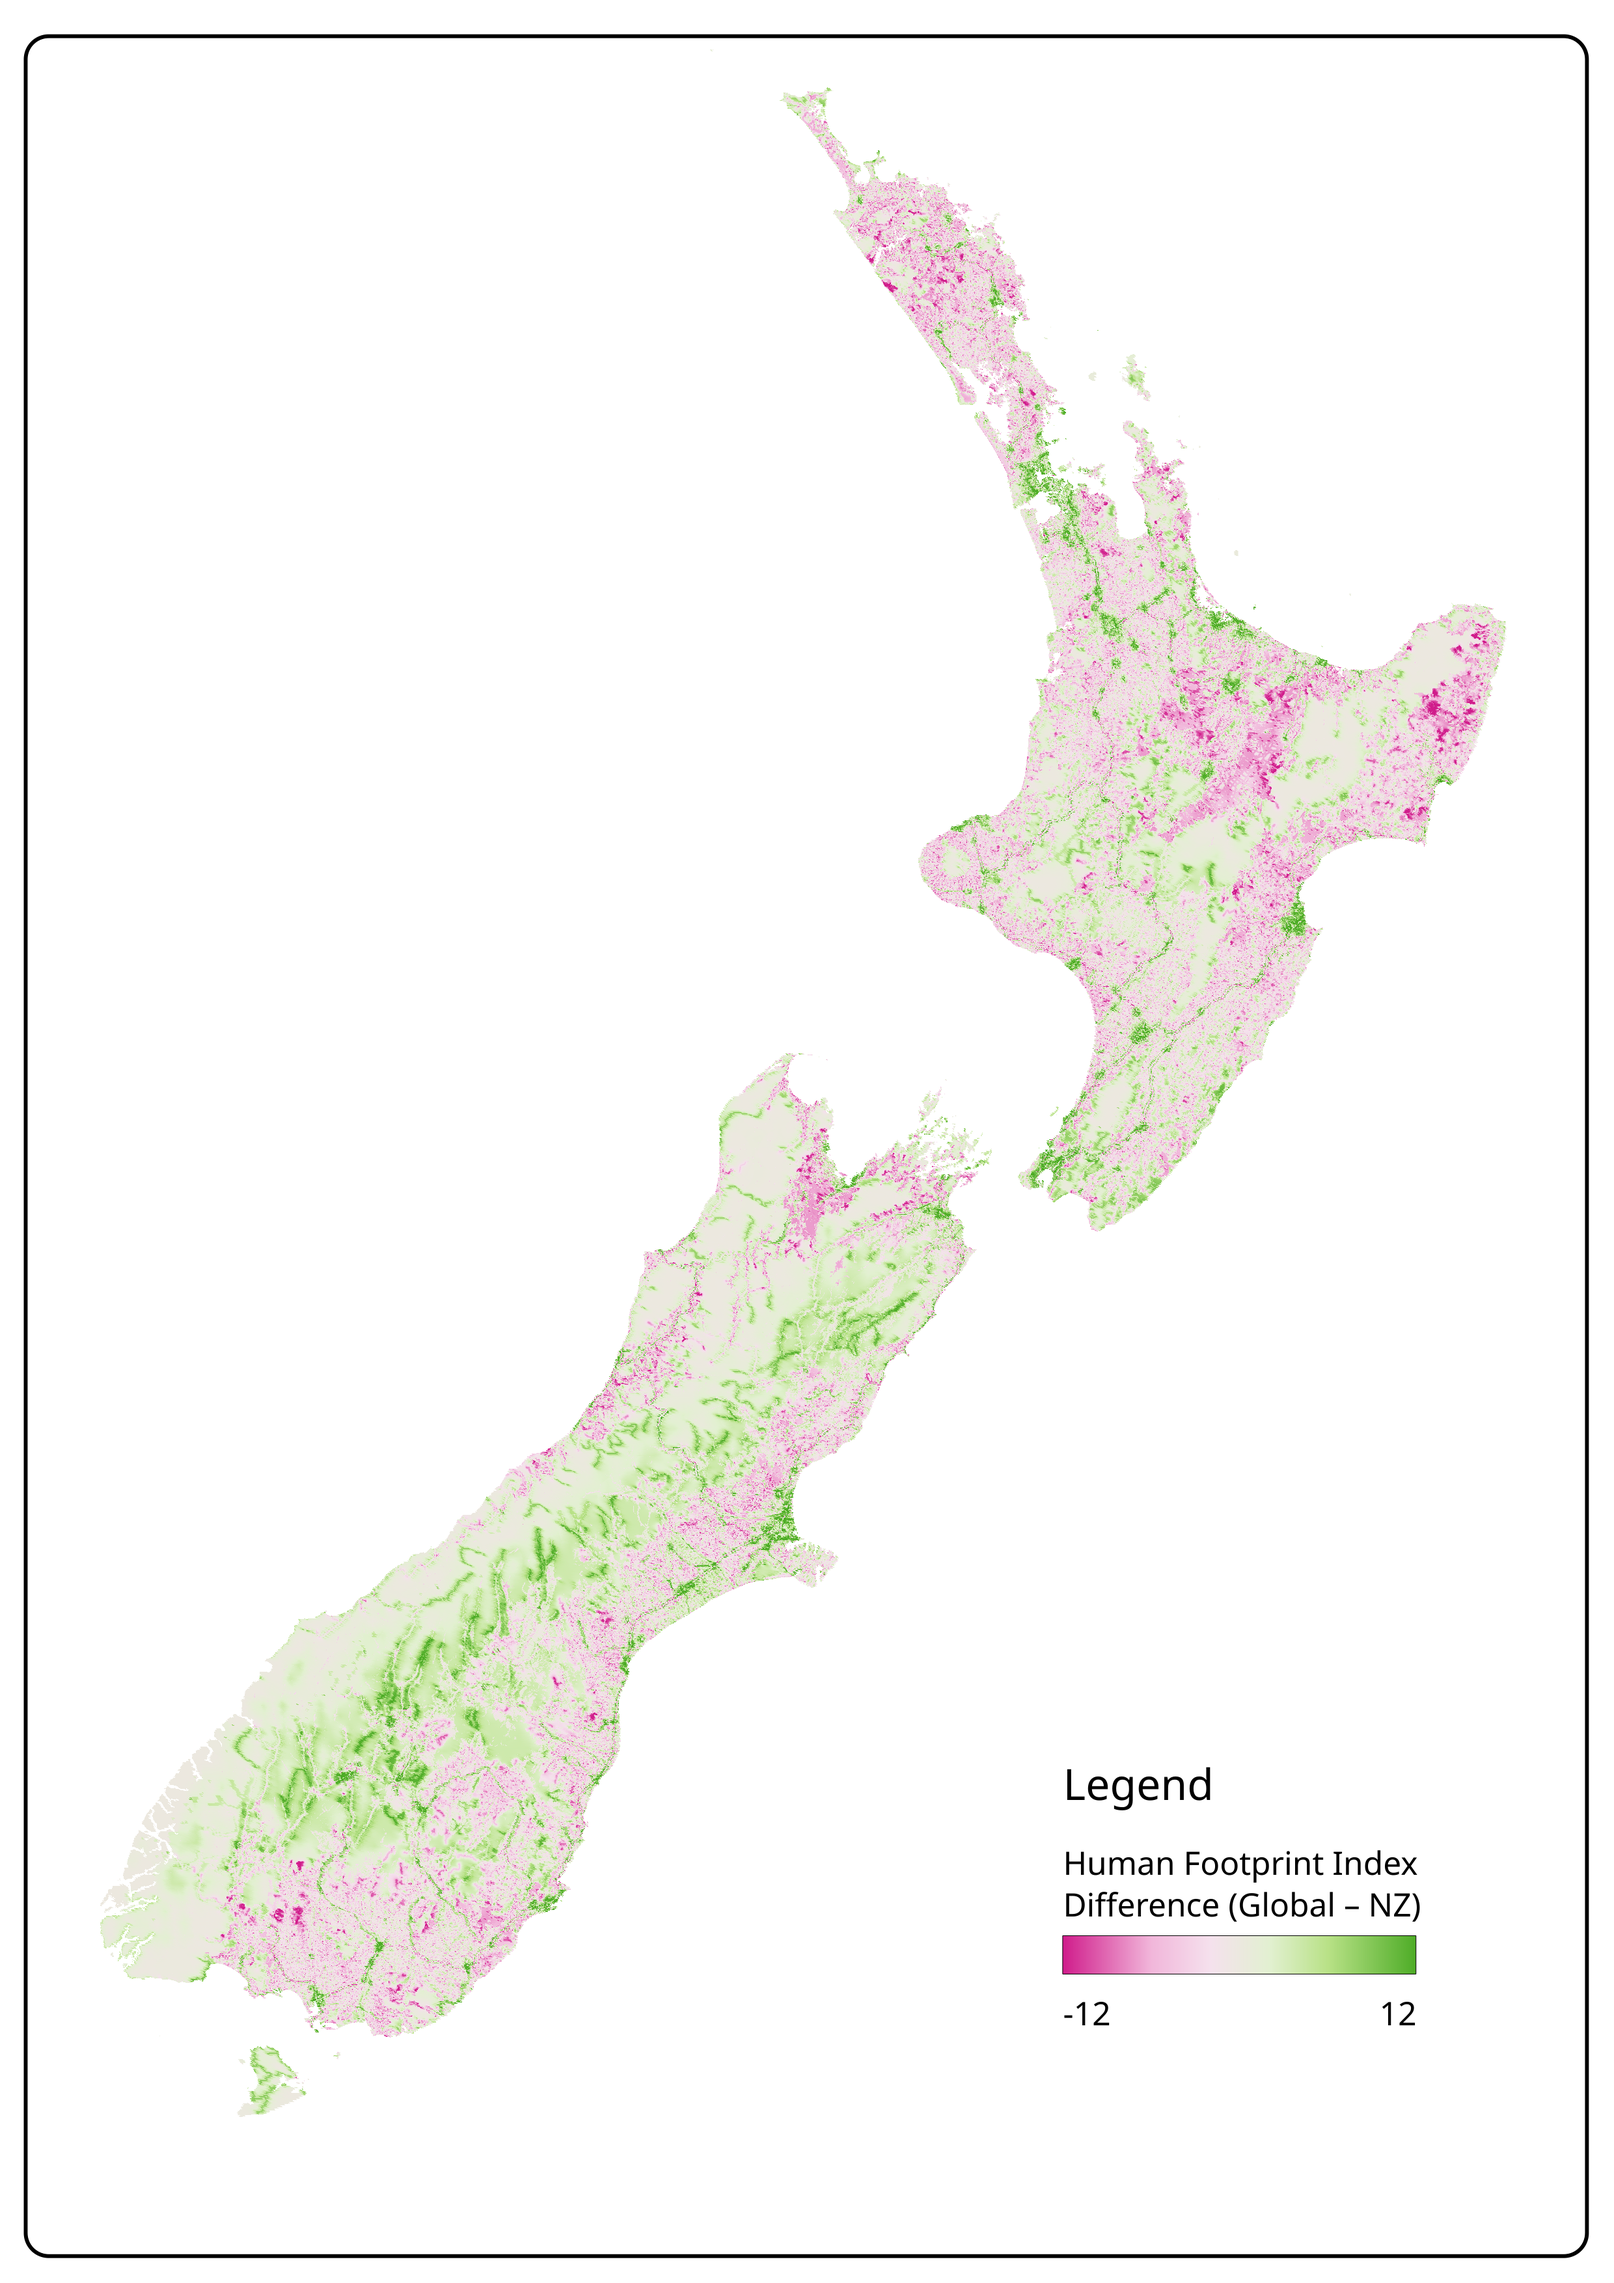
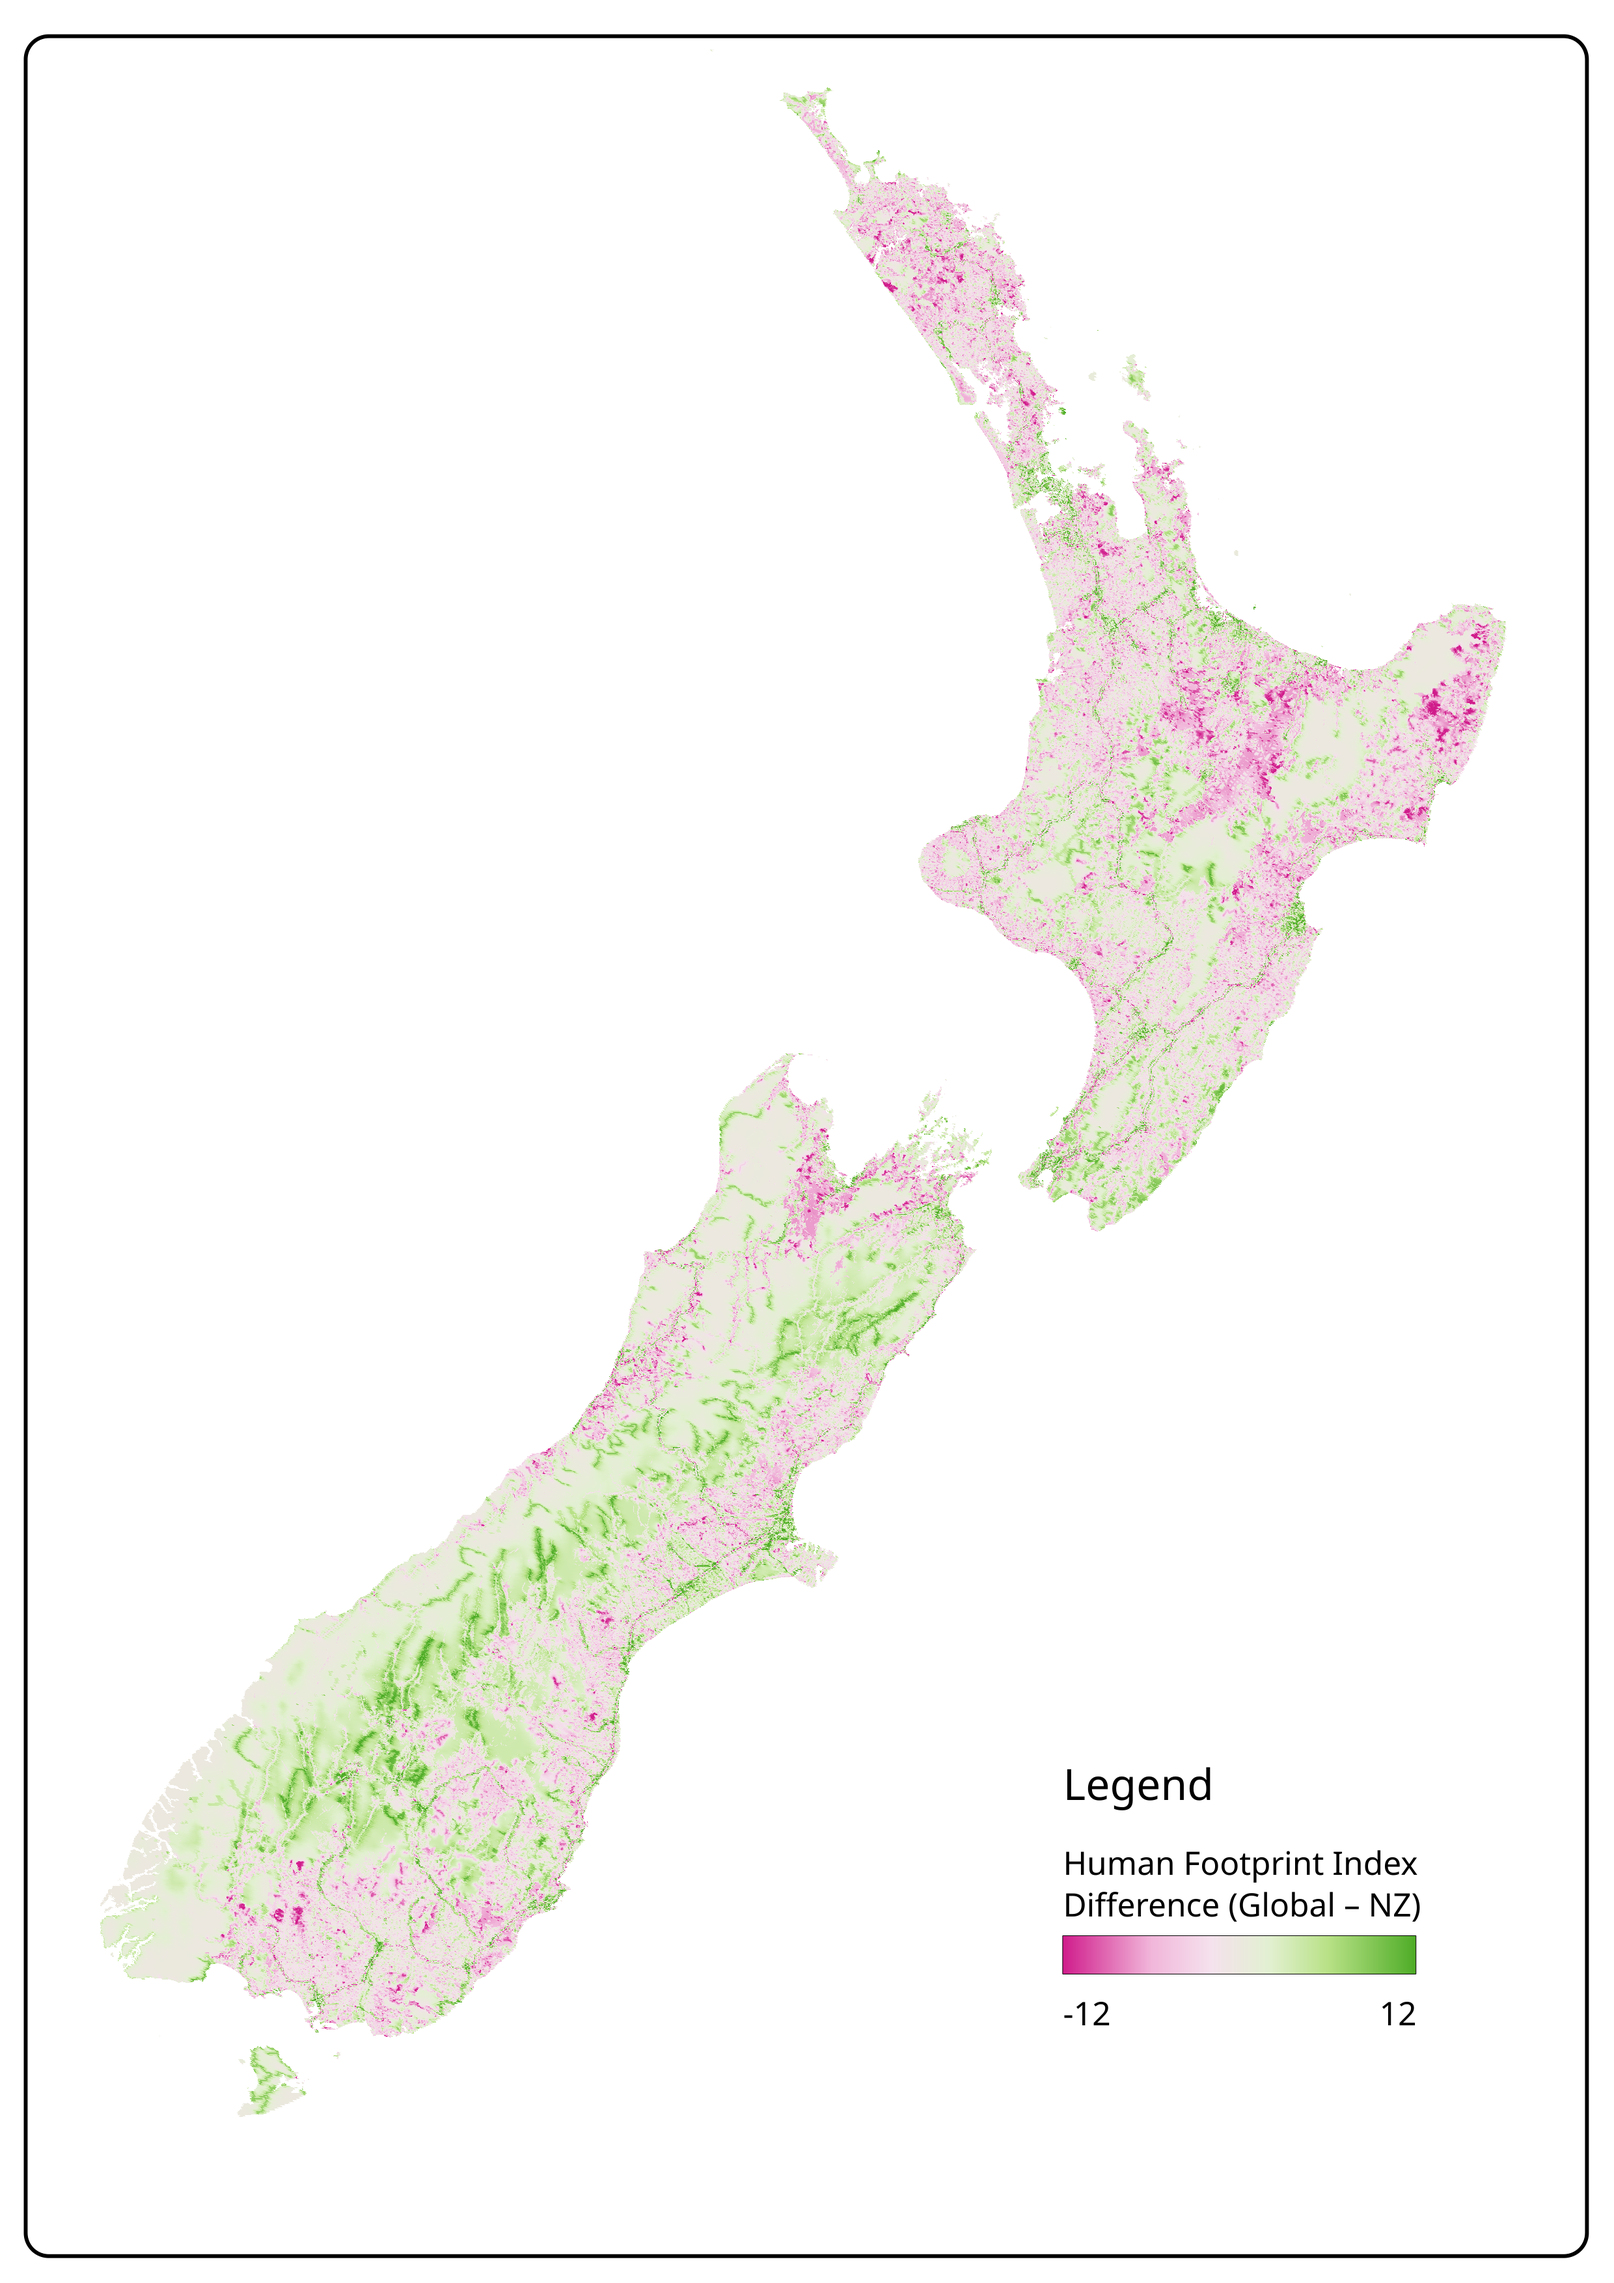
Olivia Burge review

diff --git a/src/scripts/decile.py b/src/scripts/decile.py
@@ -1,6 +1,8 @@
 """
 Convert a numerical raster into a 1-10 scale, on the basis of ten equal quantiles.
 0 and NaN are excluded from the quantile calculation, and retained in the output.
+Quantiles can be calculated on the basis of a different raster than the one used
+for classification, e.g. a baseline year.
 """
 
 from concurrent.futures import ThreadPoolExecutor
@@ -47,20 +49,23 @@ def trim_zeros(filt: np.ndarray, trim='fb') -> np.ndarray:
     return filt[i:j]
 
 def calculate_deciles(data: np.ndarray) -> np.ndarray:
-    return np.percentile(
+    deciles = np.quantile(
         trim_zeros(np.sort(data.flatten(), axis=0, kind='stable'), trim='f'),
-        np.arange(10, 100, 10)
+        np.arange(10, 100, 10),
+        method='closest_observation'
     )
+    return np.insert(deciles, 0, 0) # Add the bottom value
 
 def main(workers=smk.threads):
 
-    with rio.open(smk.input[0]) as ds:
+    baseline = Path(smk.input['baseline'][0])
+    target = Path(smk.input['night_light'])
+    with rio.open(baseline) as ds:
         deciles : np.narray = calculate_deciles(ds.read(1, masked=False))
-    deciles = np.insert(deciles, 0, 0)
     logging.info(deciles)
 
-    logging.info(f"Opening {smk.input[0]} for reading")
-    with rio.open(smk.input[0]) as src:
+    logging.info(f"Opening {target} for reading")
+    with rio.open(target) as src:
         # Create a destination dataset based on source params. The
         # destination will be tiled, and we'll process the tiles
         # concurrently.

diff --git a/docs/methodology.md b/docs/methodology.md
@@ -49,7 +49,9 @@ We used the land cover information from the Landcover Database version 5.0 for t
 The data is downloaded as a vector, rasterised as a binary raster at 10 m² resolution, and then downsampled to 100 m² with a summation algorithm to obtain a 0–100 value for measuring partial pixel cover at this scale (a value of 20 indicates that 20% of the pixel is covered in cropland or forestry). These values are converted to a footprint score using the equation:
 
 $$
-F = \frac{x}{100}\cdot4
+F = \begin{cases} 7 & \text{if $x > 20$} \\
+4 & \text{if $0 < x \le 20$} \\
+0 & \text{otherwise} \end{cases}
 $$
 
 ### Pasture
@@ -59,9 +61,7 @@ Pasture data is obtained similarly to croplands. Classes 2 (urban parkland/open 
 The cover values are obtained in the same fashion as cropland and are converted to a footprint score using the rule:
 
 $$
-F = \begin{cases} 7 & \text{if $x > 20$} \\
-4 & \text{if $0 < x \le 20$} \\
-0 & \text{otherwise} \end{cases}
+F = \frac{x}{100}\cdot4
 $$
 
 ### Roads
@@ -131,7 +131,11 @@ $$
 
 ### Final human footprint index
 
-All eight components are combined additvely. The New Zealand coastline (1:50,000 scale) is re-used in this final step in order to firmly set no-data values for marine spaces. Outside of marine areas, the minimum value is 0. This results in a raster layer where all terrestrial spaces have a minimum value of 0 (wilderness) up to a hypothetical maximum of 61. The datatype is 32-bit floating-point, rather than an integer, because some components use logarithmic or exponential functions and the values are not rounded.
+All eight components are combined additvely.
+
+The New Zealand coastline (1:50,000 scale) is re-used in this final step in order to firmly set no-data values for marine spaces. Outside of marine areas, the minimum value is 0. This results in a raster layer where all terrestrial spaces have a minimum value of 0 (wilderness) up to a hypothetical maximum of 50. Following [[19]](#19), urban, cropland, and pasture follow a "land-use exclusion principle" whereby the three types may not co-occur. Although the individual footprint values are calculated independently, at the combination stage the first non-zero value among urban, cropland, and wilderness footprint components is taken, in that order. (If this were not the case, and summation was performed naïvely, the hypothetical maximum value would be 61.)
+
+The output datatype is 32-bit floating-point, rather than an integer, because some components use logarithmic or exponetnial functions and the values are not rounded.
 
 ## Reproducibility
 
